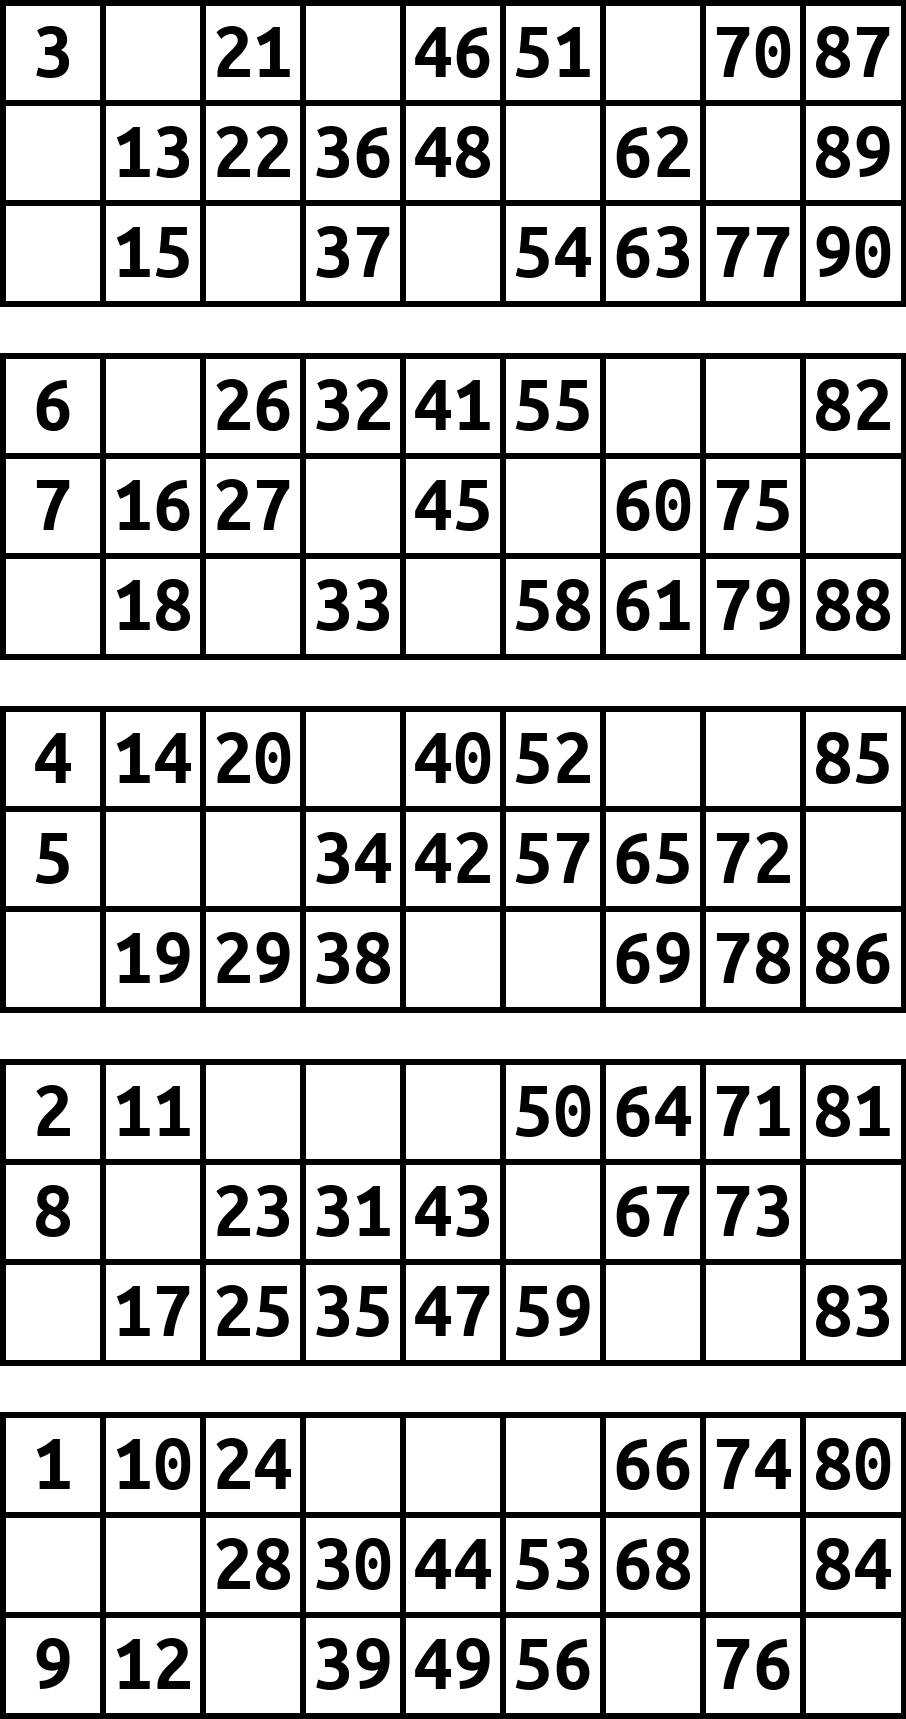
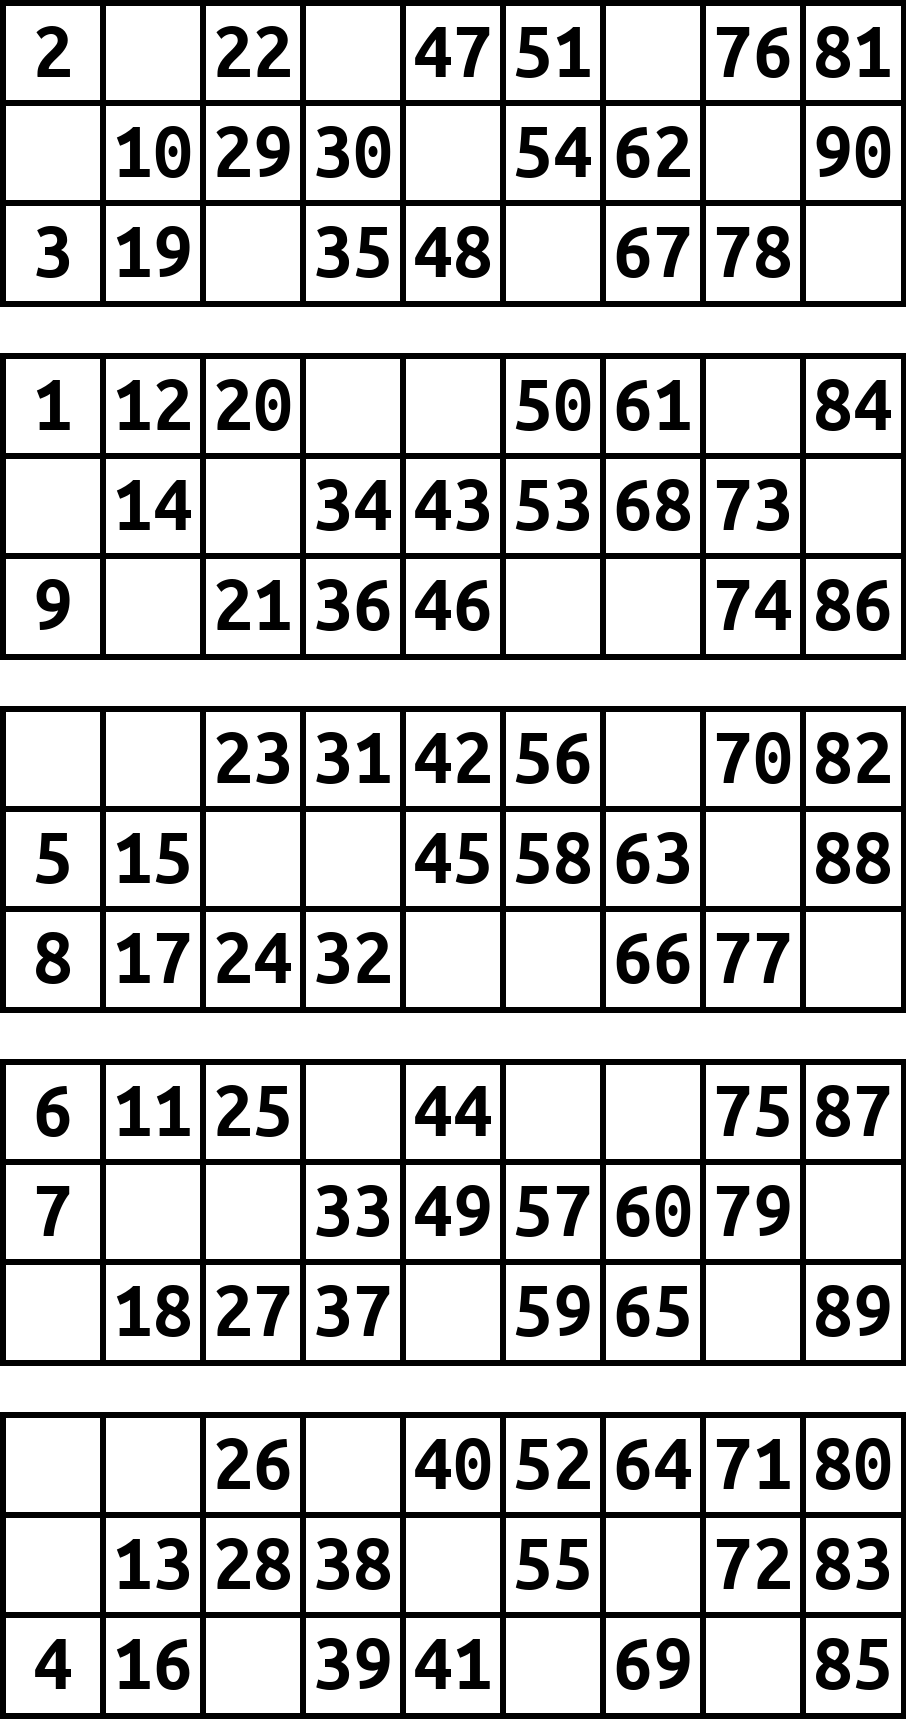
improved function
function is not recursive anymore.

diff --git a/Bingo.py b/Bingo.py
@@ -27,7 +27,7 @@ def BingoSheet(bingoNumber:int = 1):
         rng.shuffle(blankList[:,i])
 
     blankList = blankList.tolist()
-
+    
     "List with numbers 1-9, 10-19, 20-29,...,80-90"
     numberList = []
     for i in range(9):
@@ -64,8 +64,9 @@ def BingoSheet(bingoNumber:int = 1):
             # ii stands for one rectangle at a time
             # blank chooses a number set to skip drawing a number
             if currNums[ii].size==1:
+                while blankList[0][0] == blankList[8][ii]: 
+                    rng.shuffle(blankList[:][8])
                 blank = [blankList[0].pop(0), blankList[8].pop(ii)]
-                if blank[0] == blank[1]: return BingoSheet(abs(bingoNumber))
             elif currNums[ii].size==3:
                 blank = []
             else:
@@ -89,7 +90,6 @@ def BingoSheet(bingoNumber:int = 1):
                               str(number),
                               fill=(0,0,0), font=font, anchor = "ms")
 
-            
     img.save(f"BingoSheets/BingoSheet{abs(bingoNumber)-1}.png")
     
     if abs(bingoNumber)-1:
@@ -97,5 +97,4 @@ def BingoSheet(bingoNumber:int = 1):
 
 # integer argument creates integer amount of different bingo sheets, default is one
 BingoSheet()
-
 
